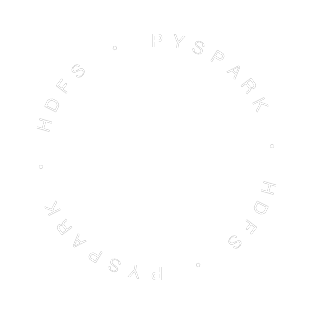
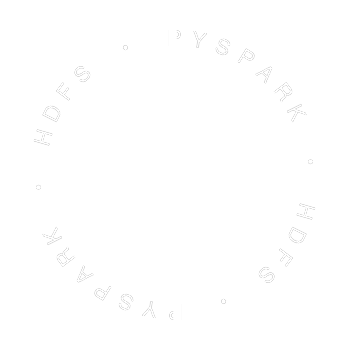
Add consistent tech circle text to all projects, bigger text, proper centering

diff --git a/src/components/sections/WorkSection.tsx b/src/components/sections/WorkSection.tsx
@@ -39,7 +39,7 @@ const projects = [
     shortDesc: 'Miscarriage Prediction using Ensemble Deep Learning Models. Models Used in the project: TabTransformer, FT-Transformer, and TabNet.',
     image: '/projects/ai-project.jpg',
     github: 'https://github.com/ImSounic/Miscarriage-Prediction-Using-Ensemble-Deep-Learning-Model.git',
-    circleImg: '/project-2.png',
+    circleImg: '/project-deeplearning.png',
     glassCard: '/assets/images/glass-card.png',
   },
   {
@@ -49,7 +49,7 @@ const projects = [
     shortDesc: 'Created A Quiz Game Inspired By The British TV Show "House Of Games". Implemented Various Game Rounds And Scoring Mechanisms.',
     image: '/projects/house-of-games.jpg',
     github: 'https://github.com/ImSounic/House-Of-Games.git',
-    circleImg: '/project-4.png',
+    circleImg: '/project-houseofgames.png',
     glassCard: '/assets/images/glass-card.png',
   },
   {
@@ -71,7 +71,7 @@ const projects = [
     image: '/projects/cleanslate.jpg',
     comingSoon: true,
     github: '#',
-    circleImg: '/project-3.png',
+    circleImg: '/project-cleanslate.png',
     glassCard: '/assets/images/glass-card.png',
   }
 ]
@@ -258,8 +258,8 @@ function TabletCarousel() {
             <div className="absolute -bottom-[-158px] -right-12 w-35 h-35 z-0">
               <Image src={circleSvg} alt="Circle decoration" width={100} height={100} />
               {project.circleImg && (
-                <div className="absolute top-[-20px] left-[-20px] right-[-20px] bottom-[-20px] flex items-center justify-center">
-                  <Image src={project.circleImg} alt="Project text circle" width={200} height={200} className="object-contain animate-spin-slow" />
+                <div className="absolute inset-0 flex items-center justify-center">
+                  <Image src={project.circleImg} alt="Project text circle" width={250} height={250} className="object-contain animate-spin-slow" />
                 </div>
               )}
             </div>
@@ -391,7 +391,7 @@ function DesktopCarousel() {
               <Image src={circleSvg} alt="Circle decoration" width={140} height={140} />
               {project.circleImg && (
                 <div className="absolute inset-0 flex items-center justify-center">
-                  <Image src={project.circleImg} alt="Project text circle" width={280} height={280} className="object-contain animate-spin-slow mr-4 mb-4" />
+                  <Image src={project.circleImg} alt="Project text circle" width={350} height={350} className="object-contain animate-spin-slow" />
                 </div>
               )}
             </div>
